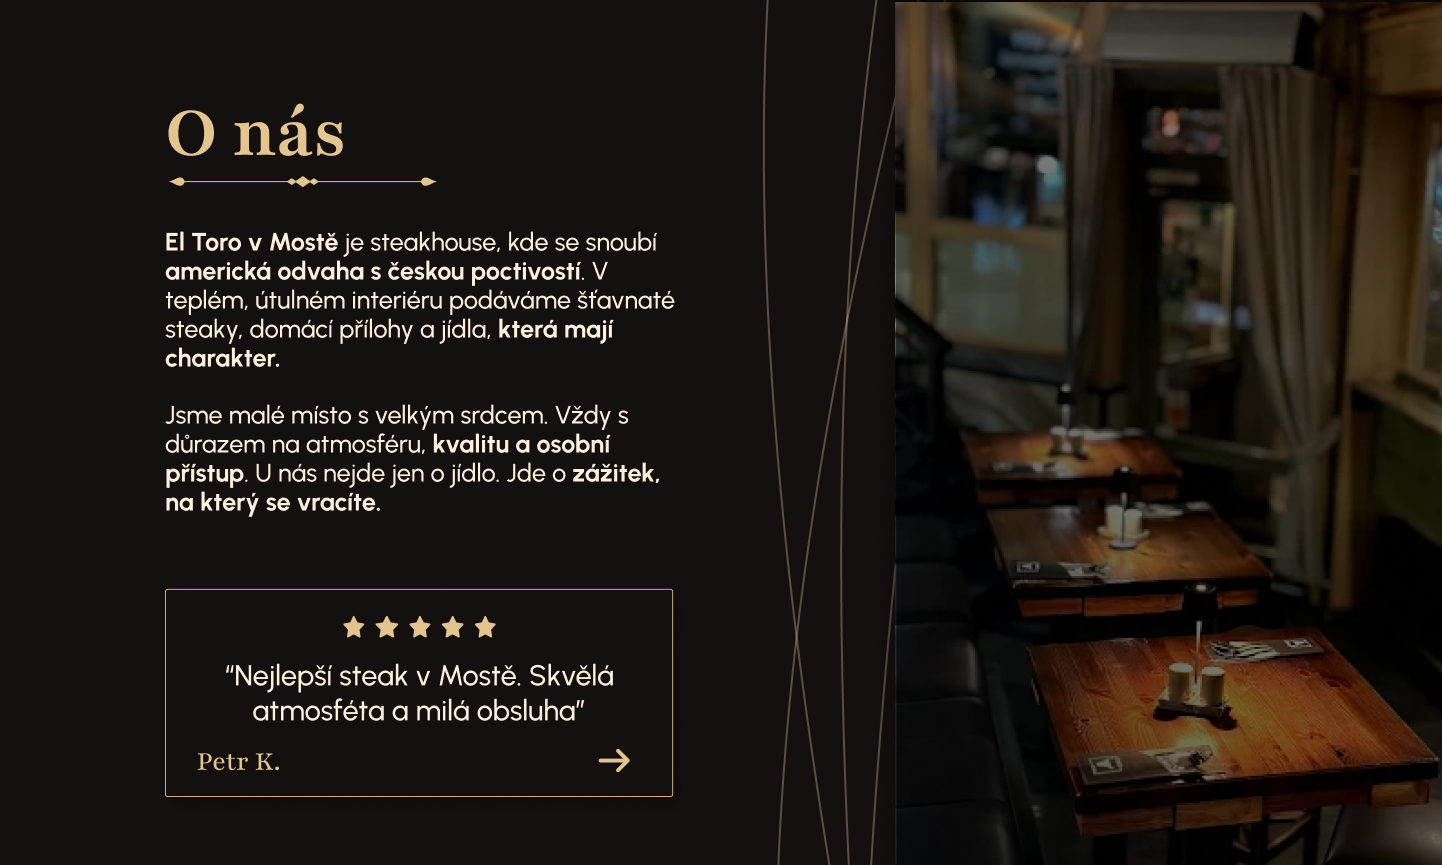
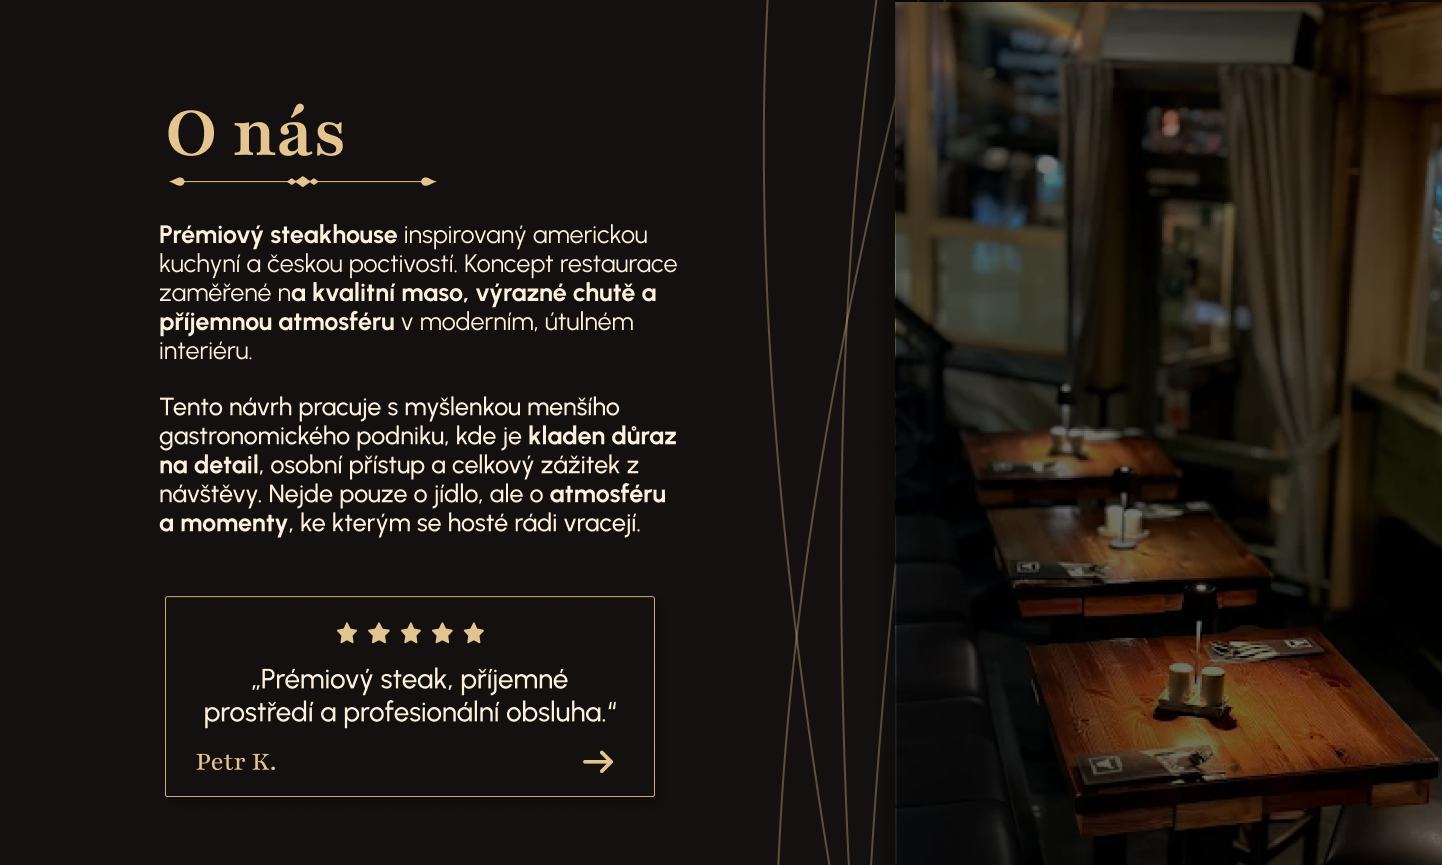
feat: improved legal representation of El Toro

diff --git a/src/data/projects/projects.en.ts b/src/data/projects/projects.en.ts
@@ -29,7 +29,7 @@ export const projectsEn: ProjectType[] = [
         "link": "el-toro",
         "title": "El Toro",
         "subtitle": "Independent website redesign",
-        "description": "I came across the El Toro restaurant website while searching for inspiration and potential projects. Since it is a place I personally consider to be of very high quality, I immediately noticed areas where the website could better reflect the level of the restaurant itself.\n" +
+        "description": "I came across the El Toro restaurant website while searching for inspiration and potential projects. Since it is a place I personally consider to be of very high quality, I noticed opportunities to explore how the website could visually reflect the character and atmosphere of the restaurant.\n" +
             "\n" +
             "I decided to create the redesign as an independent conceptual project for my portfolio. My goal was to further develop my skills in UX/UI design, visual hierarchy, brand atmosphere, and overall user experience. I approached the project as an opportunity not only to improve an existing solution, but also to experiment with new approaches and design decisions.\n" +
             "\n" +
@@ -42,9 +42,9 @@ export const projectsEn: ProjectType[] = [
         "image_3": "/projects/el-toro/4.png",
         "image_4": "/projects/el-toro/5.png",
 
-        "technical_description": "The goal was to combine the bold, meaty character of a steakhouse with the elegant experience that El Toro offers. For this reason, I intentionally moved away from the original cool color palette toward warmer beige tones, which feel more inviting and better support a premium atmosphere.\n" +
+        "technical_description": "The goal was to combine the bold, meaty character of a steakhouse with an elegant, premium dining experience. For this reason, I intentionally moved away from the original cool color palette toward warmer beige tones, which feel more inviting and better support a refined atmosphere.\n" +
             "\n" +
-            "The typography is based on a combination of a serif typeface for headings and a sans-serif typeface for longer texts. This pairing helps balance elegance with brand strength while maintaining good readability. I also added a subtle paper texture to the background to soften the overall look and give the website more character without becoming distracting. The entire redesign was created in Figma.",
+            "The typography is based on a combination of a serif typeface for headings and a sans-serif typeface for longer texts. This pairing helps balance elegance with visual strength while maintaining good readability. I also added a subtle paper texture to the background to soften the overall look and give the website more character without becoming distracting. The entire redesign was created in Figma.\n",
 
         "anchorPlaceholder1": "figma.com/design/el-toro",
         "anchorTitle1": "Figma project",

diff --git a/src/data/projects/projects.cz.ts b/src/data/projects/projects.cz.ts
@@ -31,9 +31,9 @@ export const projectsCz: ProjectType[] = [
         "link": "el-toro",
         "title": "El Toro",
         "subtitle": "Nezávislý redesign webu",
-        "description": "Na web restaurace El Toro jsem narazil při hledání inspirace a potenciálních zakázek. Jelikož se jedná o podnik, který osobně považuji za velmi kvalitní, okamžitě jsem si všiml prostoru, kde by web mohl lépe odpovídat úrovni samotné restaurace.\n" +
+        "description": "Na web restaurace El Toro jsem narazil při hledání inspirace a potenciálních zakázek. Jelikož se jedná o podnik, který osobně považuji za velmi kvalitní, okamžitě jsem si všiml prostoru, kde by web mohl lépe vizuálně reflektovat charakter a atmosféru samotné restaurace.\n" +
             "\n" +
-            "Redesign jsem se rozhodl vytvořit jako nezávislý konceptuální projekt pro své portfolio. Mým cílem bylo prohloubit dovednosti v oblasti UX/UI designu, práce s vizuální hierarchií, atmosférou značky a celkovým uživatelským zážitkem. Projekt jsem bral jako příležitost nejen zlepšit existující řešení, ale také si vyzkoušet nové přístupy a designová rozhodnutí.\n" +
+            "Redesign jsem vytvořil jako nezávislý, nekomerční návrh určený výhradně pro mé portfolio. Mým cílem bylo prohloubit dovednosti v oblasti UX/UI designu, práce s vizuální hierarchií, atmosférou značky a celkovým uživatelským zážitkem. Projekt jsem bral jako příležitost nejen zlepšit existující řešení, ale také si vyzkoušet nové přístupy a designová rozhodnutí.\n" +
             "\n" +
             "Celý návrh vznikl bez jakékoliv spolupráce s restaurací El Toro a slouží výhradně jako ukázka mého designového přístupu a způsobu uvažování nad webem prémiové restaurace.",
         "technologies": ["figma"],
